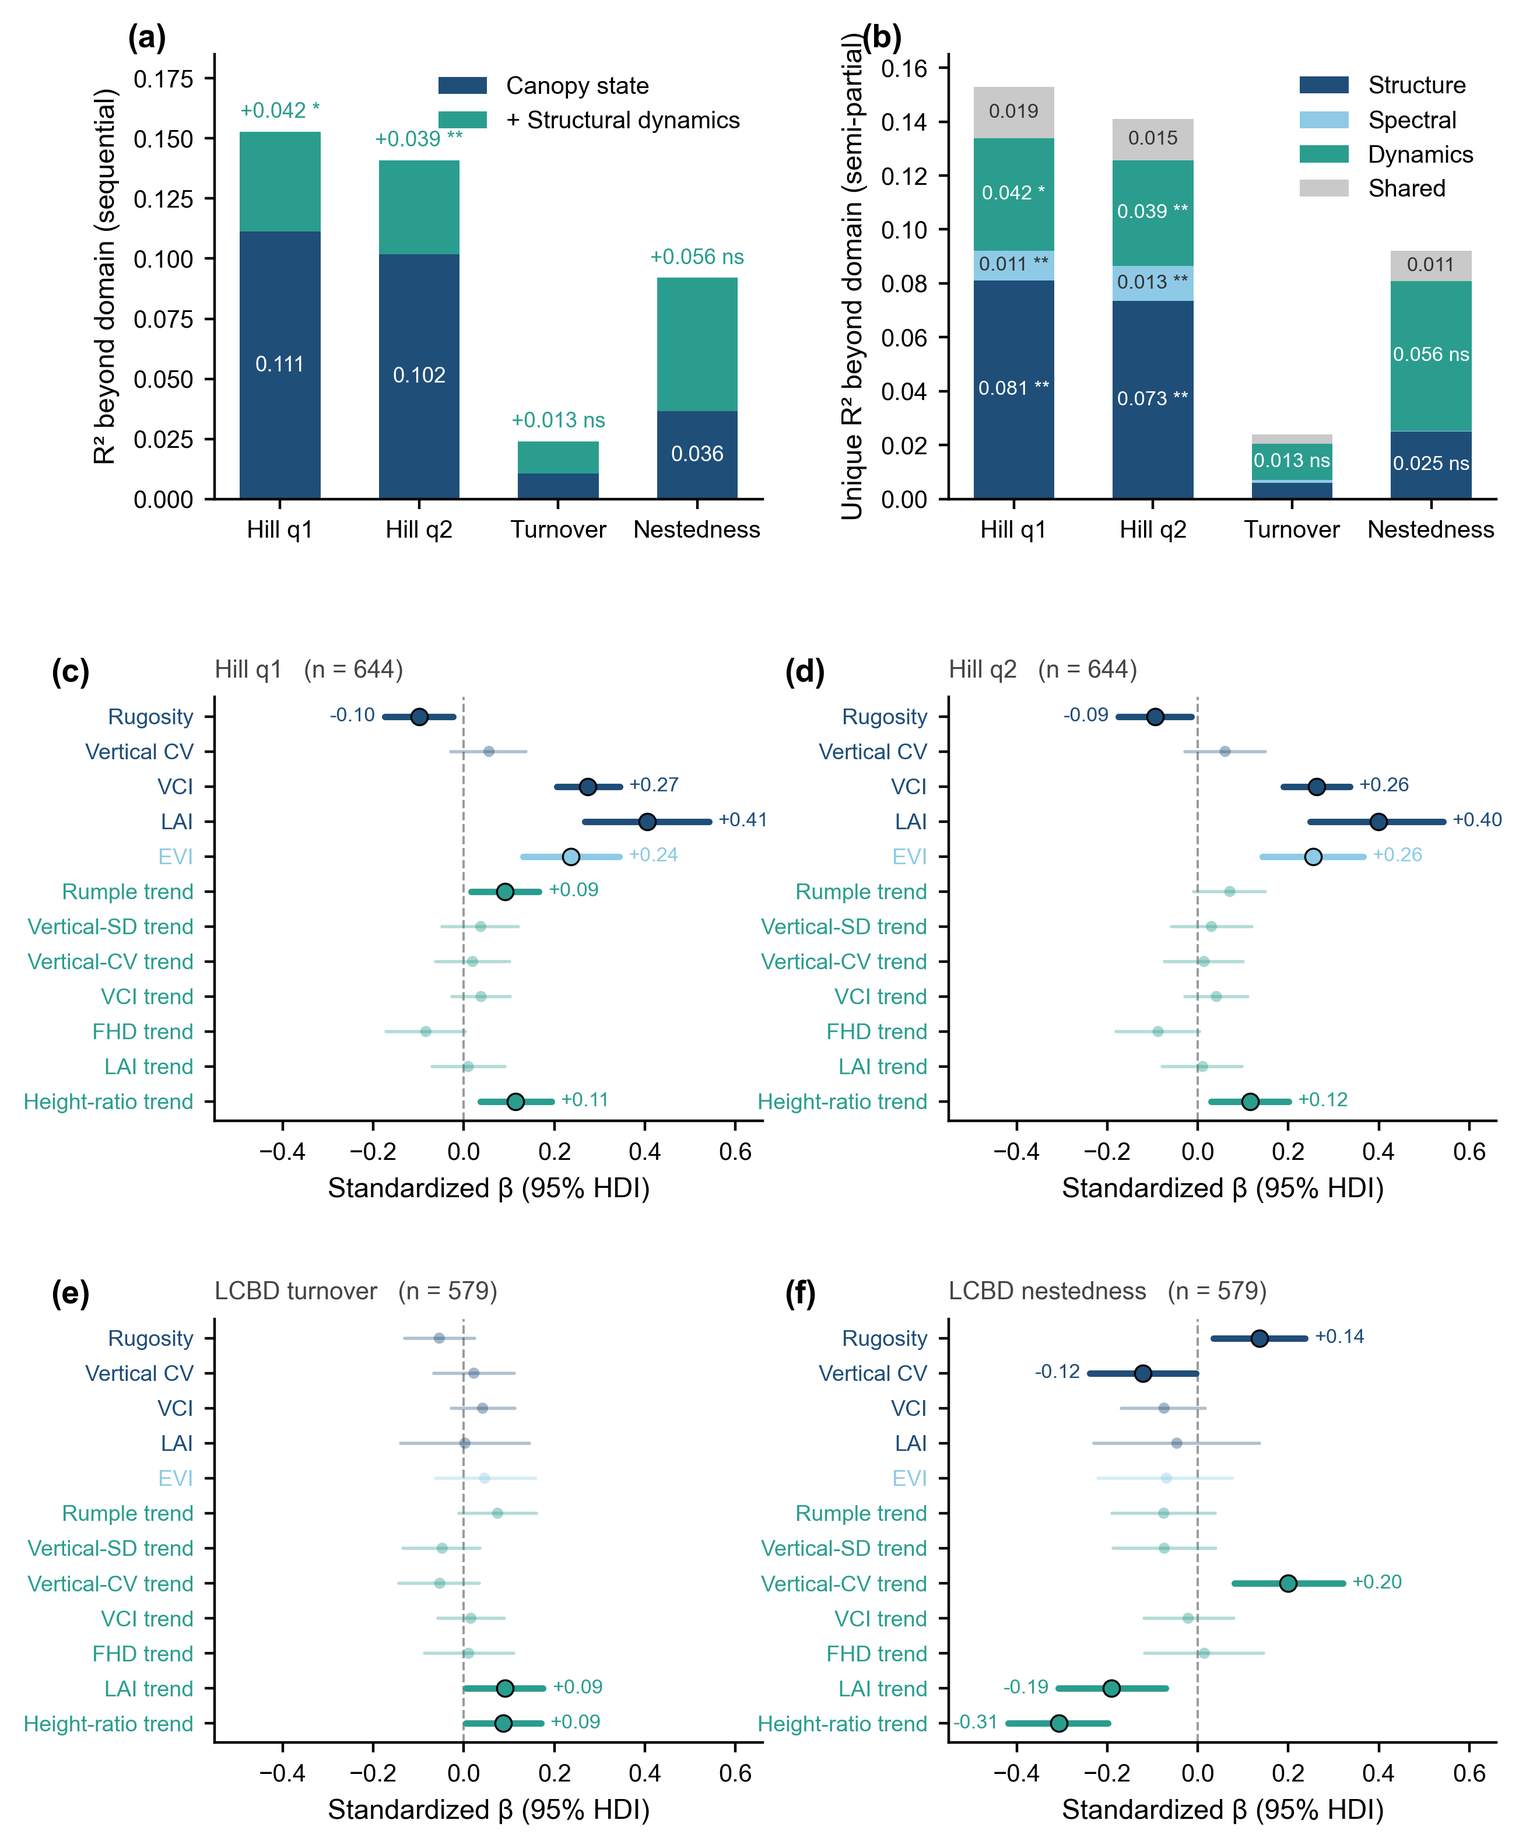
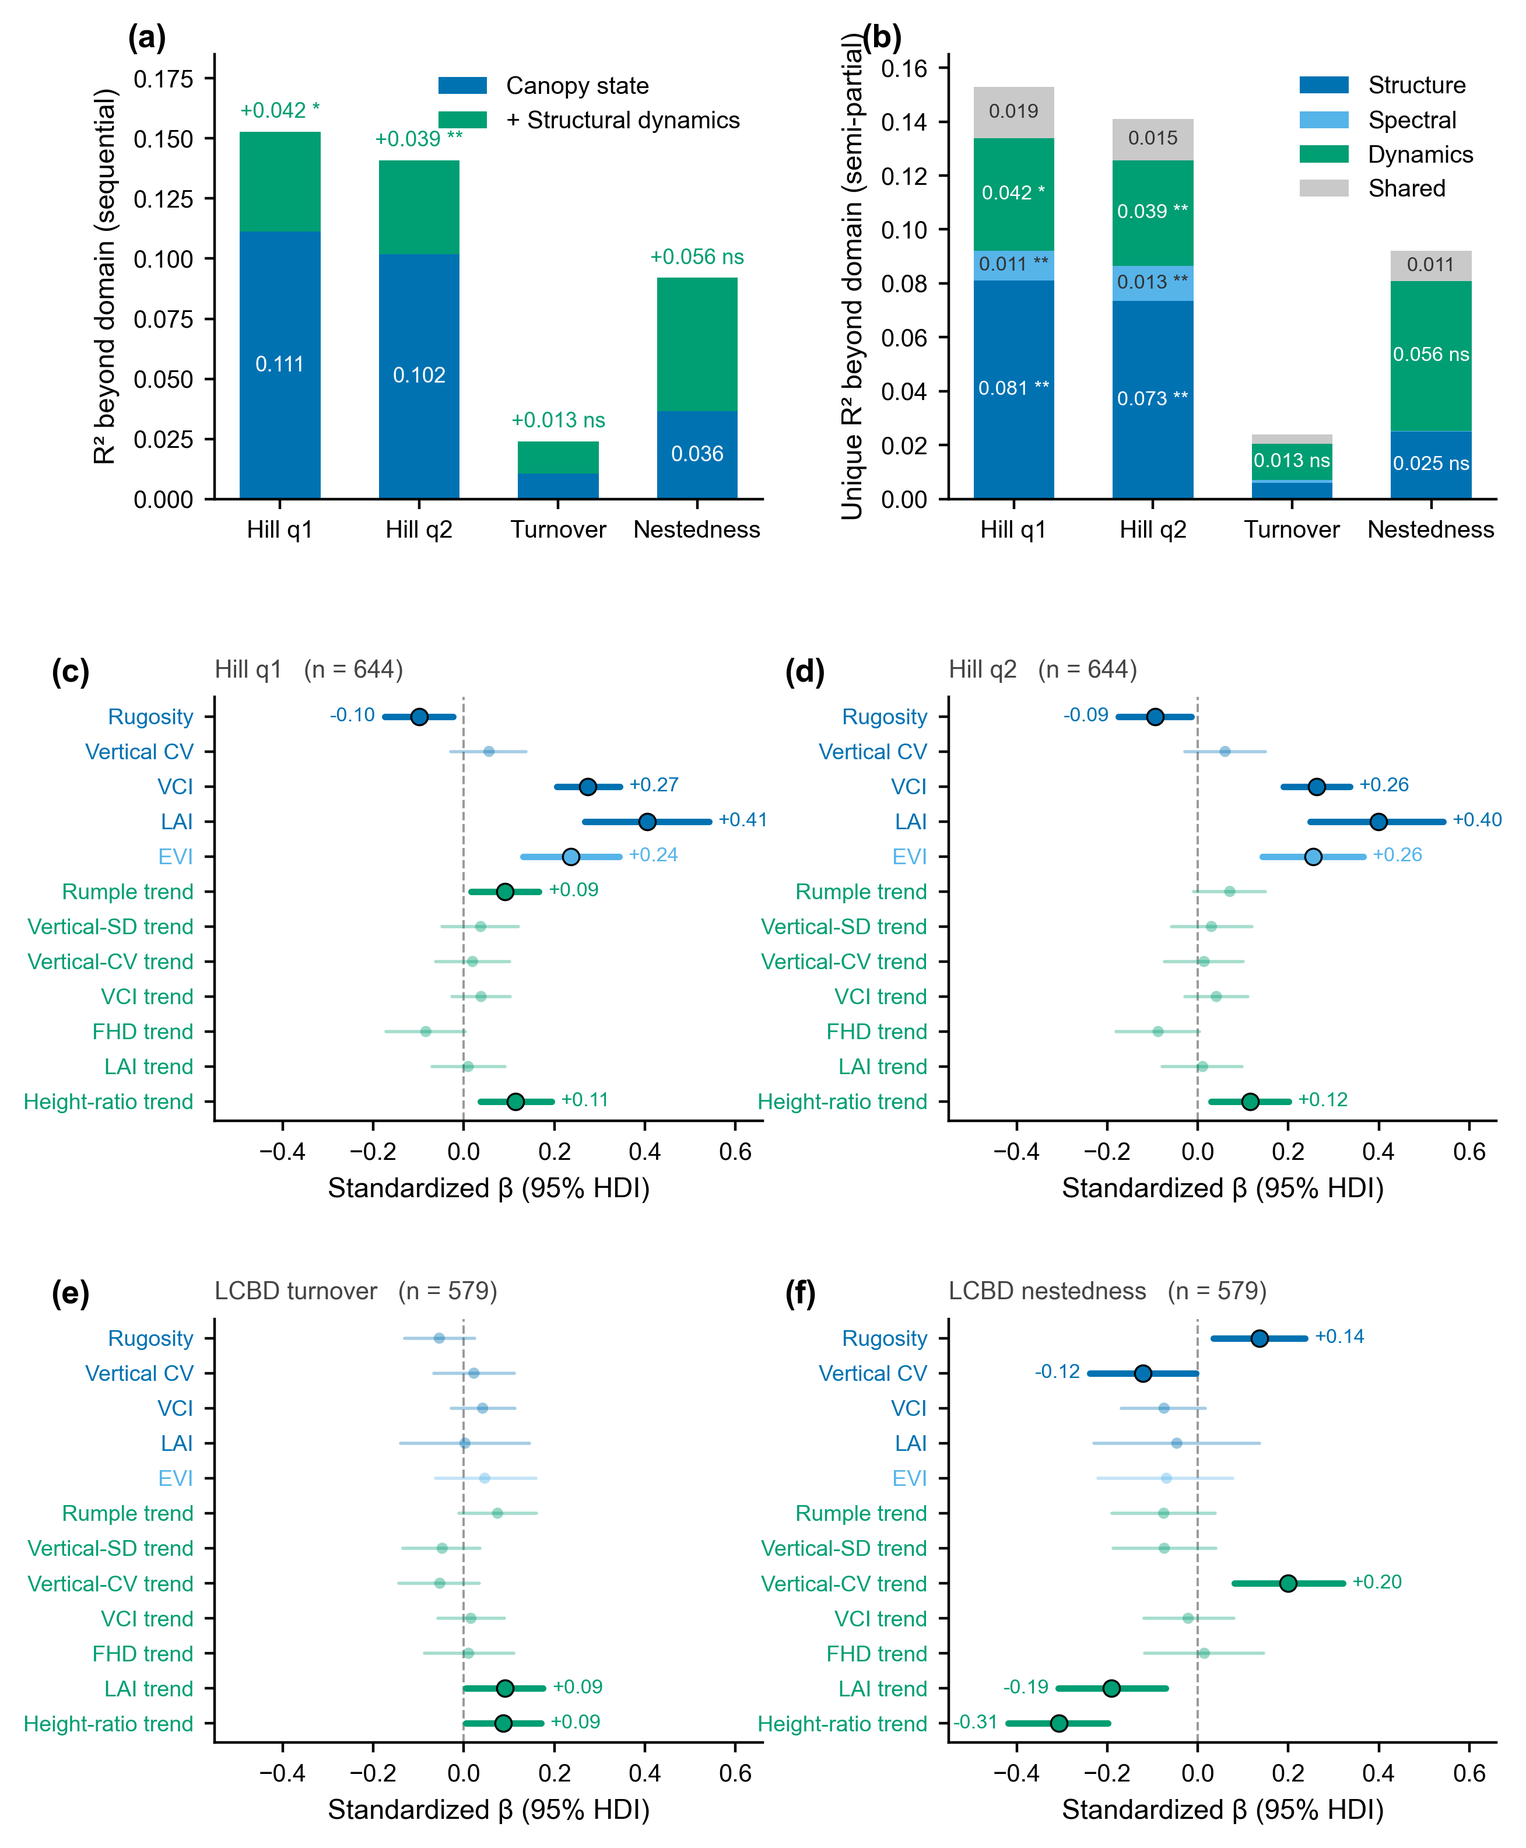
Figure round 4: Okabe-Ito palette, de-overlapped map symbols, Alaska own panel, Fig 6 b+c merged
- Global block palette switched to Okabe-Ito colourblind-safe colours
  (structure #0072B2, spectral #56B4E9, dynamics #009E73, productivity #D55E00),
  applied consistently across Figs 1/3/6; Fig 1 boxes now tinted fills (10%)
  with full-colour borders.
- Fig 2: Alaska moved from an overlay inset to its own panel (no overlap with
  the mainland); clustered site symbols displaced with thin connector lines to
  their true locations (CONUS 15 sites, AK 3); MAT colourbar moved to a
  horizontal bar under the map (no longer collides with panel b).
- Fig 6: (b) and (c) merged into one panel - both simple-slope patterns on a
  common moderator axis (dodged, orange = GPP x age, blue = VCI x severity),
  making the opposing directions directly comparable. Manuscript citations and
  legend updated (6c -> 6b).

Claude-Session: https://claude.ai/code/session_014QmjDFaec9SLSW3vnUrtQu

diff --git a/scripts_pipeline/make_manuscript_figures.py b/scripts_pipeline/make_manuscript_figures.py
@@ -47,7 +47,7 @@ RL=["Hill q1","Hill q2","LCBD turnover","LCBD nestedness"]; LAB=["Hill q1","Hill
 NICE={"Rugosity_mean":"Rugosity","Vert_CV_mean":"Vertical CV","VCI_mean":"VCI","LAI_mean":"LAI","EVI_mean":"EVI",
       "Rumple_trend":"Rumple trend","Vert_SD_trend":"Vertical-SD trend","Vert_CV_trend":"Vertical-CV trend","VCI_trend":"VCI trend",
       "FHD_trend":"FHD trend","LAI_trend":"LAI trend","Ht_Ratio_trend":"Height-ratio trend"}
-C_STR="#1f4e79"; C_SPE="#8ecae6"; C_DYN="#2a9d8f"; C_SHA="#c9c9c9"; C_PRO="#bc6c25"; C_ACC="#c1121f"
+C_STR="#0072B2"; C_SPE="#56B4E9"; C_DYN="#009E73"; C_SHA="#c9c9c9"; C_PRO="#D55E00"; C_ACC="#c1121f"   # Okabe-Ito (colourblind-safe)
 CBLK={"structure":C_STR,"spectral":C_SPE,"dynamics":C_DYN}
 def blk(c): return "structure" if c in S else "spectral" if c in P else "dynamics"
 def star(p): return "***" if p<1e-3 else "**" if p<1e-2 else "*" if p<5e-2 else "ns"
@@ -55,10 +55,12 @@ BAYES_RESP={"Hill q1":"Hill_q1","LCBD nestedness":"LCBD_nestedness_rare"}
 
 # ================= FIGURE 1 : conceptual framework =================
 fig,ax=plt.subplots(figsize=(W,4.1)); ax.set_xlim(0,10); ax.set_ylim(0,10); ax.axis("off")
-from matplotlib.patches import Rectangle
+from matplotlib.colors import to_rgba
 def cbox(x,y,w,h,lines,accent=None,fs=7.6):
-    ax.add_patch(FancyBboxPatch((x,y),w,h,boxstyle="round,pad=0.10",fc="white",ec="#7a7a7a",lw=0.9))
-    if accent: ax.add_patch(Rectangle((x-0.06,y-0.06),0.14,h+0.12,fc=accent,ec="none",zorder=3))
+    if accent:
+        ax.add_patch(FancyBboxPatch((x,y),w,h,boxstyle="round,pad=0.10",fc=to_rgba(accent,0.10),ec=accent,lw=1.3))
+    else:
+        ax.add_patch(FancyBboxPatch((x,y),w,h,boxstyle="round,pad=0.10",fc="#f7f7f7",ec="#666666",lw=1.0))
     t0=lines[0]; rest="\n".join(lines[1:])
     ax.text(x+w/2,y+h-0.34,t0,ha="center",va="center",fontsize=fs+0.6,fontweight="bold",color="#111111")
     if rest: ax.text(x+w/2,y+(h-0.62)/2,rest,ha="center",va="center",fontsize=fs,color="#444444")
@@ -109,35 +111,56 @@ def autolab(axh,xs,ys,names,fs=4.8):
     txts=[axh.text(x_,y_,n_,fontsize=fs,color="#333333") for x_,y_,n_ in zip(xs,ys,names)]
     adjust_text(txts,x=list(xs),y=list(ys),ax=axh,expand=(1.25,1.6),force_text=(0.4,0.6),
                 arrowprops=dict(arrowstyle="-",color="#999999",lw=0.4))
+# displaced symbol positions for clustered sites (metres, in each panel's CRS), with connectors to true locations
+DOTOFF={"ABBY":(-80e3,70e3),"WREF":(80e3,-70e3),"SOAP":(-80e3,-60e3),"TEAK":(80e3,60e3),
+        "UNDE":(0,120e3),"STEI":(-120e3,-80e3),"TREE":(120e3,-80e3),
+        "BLAN":(-90e3,80e3),"SCBI":(-90e3,-80e3),"SERC":(100e3,0),
+        "TALL":(70e3,90e3),"DELA":(-100e3,10e3),"LENO":(40e3,-100e3),
+        "ORNL":(-80e3,70e3),"GRSM":(90e3,-60e3)}
+AKOFF={"HEAL":(-150e3,0),"BONA":(110e3,100e3),"DEJU":(110e3,-130e3)}
+def draw_sites(axh,dd,offmap,ssize):
+    xs=[];ys=[]
+    for _,r in dd.iterrows():
+        dx,dy=offmap.get(r.siteID,(0,0)); x_,y_=r.geometry.x+dx,r.geometry.y+dy
+        if dx or dy: axh.plot([r.geometry.x,x_],[r.geometry.y,y_],color="#9a9a9a",lw=0.5,zorder=2)
+        xs.append(x_); ys.append(y_)
+    sch=axh.scatter(xs,ys,c=dd.MAT_C,cmap="RdYlBu_r",vmin=vmin,vmax=vmax,s=ssize,edgecolor="#222222",linewidth=0.6,zorder=3)
+    return sch,xs,ys
 vmin,vmax=sm.MAT_C.min(),sm.MAT_C.max()
-fig,ax=plt.subplots(1,2,figsize=(W,3.25),gridspec_kw={"width_ratios":[1.5,1]})
-conus_dom.plot(ax=ax[0],color="#f1f1ef",edgecolor="none")
-conus_dom.boundary.plot(ax=ax[0],color="#b3b3ad",lw=0.5)
+fig=plt.figure(figsize=(W,3.25))
+gsm2=fig.add_gridspec(1,3,width_ratios=[0.40,1.42,1.00],wspace=0.30)
+axk=fig.add_subplot(gsm2[0,0]); axu=fig.add_subplot(gsm2[0,1]); axb=fig.add_subplot(gsm2[0,2])
+# --- Alaska panel (own Albers, no overlap with CONUS) ---
+ak_dom.plot(ax=axk,color="#f1f1ef",edgecolor="none")
+ak_dom.boundary.plot(ax=axk,color="#b3b3ad",lw=0.4)
+_,akx,aky=draw_sites(axk,pak,AKOFF,26)
+autolab(axk,akx,aky,pak.siteID.values,fs=4.5)
+axk.set_xlim(-0.9e6,1.7e6); axk.set_ylim(0.35e6,2.45e6)
+axk.set_xticks([]); axk.set_yticks([])
+for sp in axk.spines.values(): sp.set_edgecolor("#bbbbbb"); sp.set_linewidth(0.6)
+axk.text(0.5,-0.075,"Alaska (D18–D19)",transform=axk.transAxes,ha="center",fontsize=6.5,color="#555555")
+panel(axk,"(a)",-0.10,1.02)
+# --- CONUS panel ---
+conus_dom.plot(ax=axu,color="#f1f1ef",edgecolor="none")
+conus_dom.boundary.plot(ax=axu,color="#b3b3ad",lw=0.5)
 for _,r in conus_dom.iterrows():
     pt=r.geometry.representative_point()
-    ax[0].text(pt.x,pt.y,f"D{int(r.DomainID):02d}",fontsize=4.3,color="#a8a8a2",ha="center",va="center",zorder=1)
-sc=ax[0].scatter(p48.geometry.x,p48.geometry.y,c=p48.MAT_C,cmap="RdYlBu_r",vmin=vmin,vmax=vmax,s=38,edgecolor="#222222",linewidth=0.6,zorder=3)
-autolab(ax[0],p48.geometry.x.values,p48.geometry.y.values,p48.siteID.values)
-ax[0].set_axis_off(); panel(ax[0],"(a)",0.01,0.97)
-# Alaska inset (Alaska Albers, NEON domains D18/D19)
-axi=ax[0].inset_axes([0.00,0.02,0.30,0.34])
-ak_dom.plot(ax=axi,color="#f1f1ef",edgecolor="none")
-ak_dom.boundary.plot(ax=axi,color="#b3b3ad",lw=0.4)
-axi.scatter(pak.geometry.x,pak.geometry.y,c=pak.MAT_C,cmap="RdYlBu_r",vmin=vmin,vmax=vmax,s=26,edgecolor="#222222",linewidth=0.5,zorder=3)
-autolab(axi,pak.geometry.x.values,pak.geometry.y.values,pak.siteID.values,fs=4.3)
-axi.set_xlim(-0.8e6,1.65e6); axi.set_ylim(0.4e6,2.4e6)
-axi.set_xticks([]); axi.set_yticks([])
-for sp in axi.spines.values(): sp.set_edgecolor("#aaaaaa"); sp.set_linewidth(0.6)
-axi.set_title("Alaska",fontsize=6,color="#555555",pad=1.5)
-cb=fig.colorbar(sc,ax=ax[0],shrink=0.62,pad=0.01,aspect=22); cb.set_label("Mean annual temperature (°C)",fontsize=7.5); cb.ax.tick_params(labelsize=7)
+    axu.text(pt.x,pt.y,f"D{int(r.DomainID):02d}",fontsize=4.3,color="#a8a8a2",ha="center",va="center",zorder=1)
+sc,usx,usy=draw_sites(axu,p48,DOTOFF,30)
+autolab(axu,usx,usy,p48.siteID.values)
+axu.set_axis_off()
+cax=axu.inset_axes([0.28,-0.04,0.46,0.045])
+cb=fig.colorbar(sc,cax=cax,orientation="horizontal"); cb.set_label("Mean annual temperature (°C)",fontsize=6.8); cb.ax.tick_params(labelsize=6.2)
 cb.outline.set_visible(False)
-s2=ax[1].scatter(sm.MAT_C,sm.MAP_mm,c=sm.Hill_q1,cmap="viridis",s=42,edgecolor="#222222",linewidth=0.6,zorder=3)
-autolab(ax[1],sm.MAT_C.values,sm.MAP_mm.values,sm.siteID.values)
-ax[1].set_xlabel("Mean annual temperature (°C)"); ax[1].set_ylabel("Mean annual precipitation (mm)")
-panel(ax[1],"(b)",-0.22,1.00)
-cb2=fig.colorbar(s2,ax=ax[1],shrink=0.85,pad=0.03,aspect=22); cb2.set_label("Site-mean Hill q1",fontsize=7.5); cb2.ax.tick_params(labelsize=7)
+# --- climate space ---
+s2=axb.scatter(sm.MAT_C,sm.MAP_mm,c=sm.Hill_q1,cmap="viridis",s=40,edgecolor="#222222",linewidth=0.6,zorder=3)
+autolab(axb,sm.MAT_C.values,sm.MAP_mm.values,sm.siteID.values)
+axb.set_xlabel("Mean annual temperature (°C)"); axb.set_ylabel("Mean annual precipitation (mm)")
+panel(axb,"(b)",-0.26,1.02)
+cax2=axb.inset_axes([1.04,0.06,0.035,0.86])
+cb2=fig.colorbar(s2,cax=cax2); cb2.set_label("Site-mean Hill q1",fontsize=7); cb2.ax.tick_params(labelsize=6.5)
 cb2.outline.set_visible(False)
-fig.tight_layout(); fig.savefig(FIG+"/Figure_2.png",bbox_inches="tight"); plt.close(fig)
+fig.savefig(FIG+"/Figure_2.png",bbox_inches="tight"); plt.close(fig)
 print(f"VERIFY Fig2: sites={len(sm)} (26), MAT {sm.MAT_C.min():.1f}~{sm.MAT_C.max():.1f}C, MAP {sm.MAP_mm.min():.0f}~{sm.MAP_mm.max():.0f}mm")
 
 # ================= FIGURE 3 : plot-level framework =================
@@ -280,7 +303,7 @@ sig=sig.sort_values(["family","beta_int"]).reset_index(drop=True)
 ss=pd.read_csv(RES+"/simple_slopes.csv"); z=[-1,0,1]
 gA=ss[(ss.rp=="Hill q1")&(ss.rs=="modis_gpp")&(ss.ctx=="stand_age_gami")].sort_values("ctx_z")
 gB=ss[(ss.rp=="Hill q1")&(ss.rs=="VCI_mean")&(ss.ctx=="severity")].sort_values("ctx_z")
-fig,ax=plt.subplots(1,3,figsize=(W,3.0),gridspec_kw={"width_ratios":[1.5,1,1]})
+fig,ax=plt.subplots(1,2,figsize=(W,3.0),gridspec_kw={"width_ratios":[1.35,1]})
 a=ax[0]; ysig=np.arange(len(sig))
 for yi,r in zip(ysig,sig.itertuples()):
     c=FAMC.get(r.family,"#444444")
@@ -296,20 +319,23 @@ a.legend(handles=[Line2D([0],[0],color=FAMC["disturbance"],lw=2,label="Disturban
                   Line2D([0],[0],color=FAMC["land use"],lw=2,label="Land use")],
          frameon=False,loc="upper left",fontsize=6.5,handlelength=1.4,borderaxespad=0.1)
 panel(a,"(a)",-0.52,1.02)
-for a,(g4,col,xt,note,letter) in zip(ax[1:],[
-    (gA,C_PRO,["−1 SD\n(younger)","Mean","+1 SD\n(older)"],"MODIS GPP → Hill q1\nby stand age (ns, q = 0.26)","(b)"),
-    (gB,C_STR,["−1 SD\n(least dist.)","Mean","+1 SD\n(most dist.)"],"VCI → Hill q1\nby disturbance severity","(c)")]):
-    a.errorbar(z,g4.slope,yerr=1.96*g4.se,marker="o",capsize=3,color=col,lw=1.4,ms=4.5)
+# (b) combined simple slopes: two moderation patterns, dodged on a common moderator axis
+a=ax[1]; dodge=0.09
+for g4,col,dx,lab4,va_lab in [(gA,C_PRO,-dodge,"MODIS GPP → Hill q1 by stand age (ns, q = 0.26)",1),
+                              (gB,C_STR,+dodge,"VCI → Hill q1 by disturbance severity",-1)]:
+    zx=[zz+dx for zz in z]
+    a.errorbar(zx,g4.slope,yerr=1.96*g4.se,marker="o",capsize=3,color=col,lw=1.4,ms=4.5,label=lab4)
     tops=(g4.slope+1.96*g4.se).values; bots=(g4.slope-1.96*g4.se).values
-    for zz,sl,tp,pv in zip(z,g4.slope,tops,g4.p):
-        a.annotate(f"{sl:+.2f}{'*' if pv<0.05 else ''}",(zz,tp),textcoords="offset points",xytext=(0,3),
-                   color=col,fontsize=6.4,ha="center")
-    a.axhline(0,color="#999999",lw=0.7,ls="--")
-    a.set_xticks(z); a.set_xticklabels(xt,fontsize=6.2); a.set_xlim(-1.55,1.55)
-    a.set_ylim(min(-0.02,bots.min()-0.04),tops.max()+0.15)
-    a.text(0.04,0.975,note,transform=a.transAxes,fontsize=6.4,color="#444444",va="top")
-    panel(a,letter,-0.16,1.02)
-ax[1].set_ylabel("Simple slope on Hill q1 (per 1 SD)",fontsize=7.5)
+    for zz,sl,tp,bt,pv in zip(zx,g4.slope,tops,bots,g4.p):
+        if va_lab>0: a.annotate(f"{sl:+.2f}{'*' if pv<0.05 else ''}",(zz,tp),textcoords="offset points",xytext=(0,3),color=col,fontsize=6.2,ha="center")
+        else: a.annotate(f"{sl:+.2f}{'*' if pv<0.05 else ''}",(zz,bt),textcoords="offset points",xytext=(0,-9),color=col,fontsize=6.2,ha="center")
+a.axhline(0,color="#999999",lw=0.7,ls="--")
+a.set_xticks(z); a.set_xticklabels(["−1 SD","Mean","+1 SD"],fontsize=7); a.set_xlim(-1.55,1.55)
+a.set_ylim(-0.14,0.83)
+a.set_xlabel("Moderator level (stand age / disturbance severity)")
+a.set_ylabel("Simple slope on Hill q1 (per 1 SD)",fontsize=7.5)
+a.legend(frameon=False,loc="upper left",fontsize=6.2,handlelength=1.6)
+panel(a,"(b)",-0.18,1.02)
 fig.tight_layout(); fig.savefig(FIG+"/Figure_6.png",bbox_inches="tight"); plt.close(fig)
 print(f"VERIFY Fig6: FDR-sig interactions={len(sig)} (7: 4 disturbance + 3 land use) | MODISxAge slopes={[round(v,2) for v in gA.slope]} | VCIxSev={[round(v,2) for v in gB.slope]}")
 print("ALL FIGURES SAVED ->",FIG)

diff --git a/NEON_v2/papers/UNIFIED/MANUSCRIPT_v2_full_26site.md b/NEON_v2/papers/UNIFIED/MANUSCRIPT_v2_full_26site.md
@@ -115,7 +115,7 @@ The plot-level diagnostic confirmed why productivity belongs at the site scale. 
 
 Across three context families (stand age, disturbance, land use), the interaction screen (168 terms) identified seven terms surviving FDR correction (four disturbance, three land use) (Figure 6a). We treat the two coherent patterns below as interpretable and the remainder as exploratory.
 
-First, the productivity–diversity association was descriptively steeper in older stands; simple slopes of MODIS GPP on Hill q1 rose from +0.17 (p = 0.13) at −1 SD stand age to +0.27 (p = 0.01) at the mean and +0.38 (p = 0.007) at +1 SD (Figure 6b). However, the formal GPP × stand-age interaction did not survive FDR correction (MODIS q = 0.26; PML q = 0.35). We therefore report age dependence of the productivity signal as suggestive rather than statistically supported. Second, the structure–diversity association weakened with disturbance. The leaf-area × severity interaction was negative for alpha diversity (q = 0.004), and disturbance recency additionally moderated the productivity signal (MODIS × recency q = 0.005). The VCI–diversity simple slope remained positive at all disturbance levels but declined from +0.39 (p = 9 × 10⁻⁷) in the least-disturbed plots to +0.21 (p = 1 × 10⁻⁴) in the most-disturbed (Figure 6c). Among land-use interactions, spectral-by-land-use terms on turnover survived correction (EVI × forest fraction q = 4 × 10⁻⁵; EVI × edge density q = 0.002; EVI × land-cover diversity q = 0.009) and are reported as exploratory. Direct land-use effects were weak and non-significant (edge density β = −0.09, p = 0.10; forest fraction β = +0.06, p = 0.22). Last, in the BACI analysis, the treatment × post-disturbance interaction estimated a decline of approximately one species (ΔRichness β = −1.05, p = 0.069; n = 79 impact and 215 control plots), whereas abundance-weighted diversity was unchanged (p = 0.81), consistent with losses concentrated among rare species.
+First, the productivity–diversity association was descriptively steeper in older stands; simple slopes of MODIS GPP on Hill q1 rose from +0.17 (p = 0.13) at −1 SD stand age to +0.27 (p = 0.01) at the mean and +0.38 (p = 0.007) at +1 SD (Figure 6b). However, the formal GPP × stand-age interaction did not survive FDR correction (MODIS q = 0.26; PML q = 0.35). We therefore report age dependence of the productivity signal as suggestive rather than statistically supported. Second, the structure–diversity association weakened with disturbance. The leaf-area × severity interaction was negative for alpha diversity (q = 0.004), and disturbance recency additionally moderated the productivity signal (MODIS × recency q = 0.005). The VCI–diversity simple slope remained positive at all disturbance levels but declined from +0.39 (p = 9 × 10⁻⁷) in the least-disturbed plots to +0.21 (p = 1 × 10⁻⁴) in the most-disturbed (Figure 6b). Among land-use interactions, spectral-by-land-use terms on turnover survived correction (EVI × forest fraction q = 4 × 10⁻⁵; EVI × edge density q = 0.002; EVI × land-cover diversity q = 0.009) and are reported as exploratory. Direct land-use effects were weak and non-significant (edge density β = −0.09, p = 0.10; forest fraction β = +0.06, p = 0.22). Last, in the BACI analysis, the treatment × post-disturbance interaction estimated a decline of approximately one species (ΔRichness β = −1.05, p = 0.069; n = 79 impact and 215 control plots), whereas abundance-weighted diversity was unchanged (p = 0.81), consistent with losses concentrated among rare species.
 
 # 4. Discussion
 
@@ -169,6 +169,6 @@ We evaluated how three remote-sensing dimensions relate to the components of tre
 
 **Figure 5.** Site-level species–energy relationship. Site-mean Hill q1 versus (a) eddy-covariance tower GPP (22 sites), (b) PML-V2 GPP, and (c) MODIS GPP (all 26 sites). All three relationships are monotonic with no quadratic (hump) support, and both satellite products track the tower closely (r = +0.86 and +0.85). File: `figures/Figure_5.png`.
 
-**Figure 6.** Context moderation. (a) All seven interaction terms surviving FDR correction in the 168-term screen (interaction β with 95% CI reconstructed from the reported p-values; colour = context family; q values at right). (b) Simple slopes (± 95% CI) of MODIS GPP on Hill q1 at −1 SD, mean, and +1 SD stand age; the formal interaction does not survive FDR (q = 0.26) and is reported as suggestive. (c) Simple slopes of VCI on Hill q1 by disturbance severity. Asterisks: p < 0.05. File: `figures/Figure_6.png`.
+**Figure 6.** Context moderation. (a) All seven interaction terms surviving FDR correction (q = Benjamini–Hochberg-adjusted p) in the 168-term screen; interaction β with 95% CI reconstructed from the reported p-values; colour = context family. (b) Simple slopes (± 95% CI) on Hill q1 for the two coherent moderation patterns, on a common moderator axis: MODIS GPP by stand age (orange; the formal interaction does not survive FDR, q = 0.26, and is reported as suggestive) and VCI by disturbance severity (blue). Asterisks: p < 0.05. File: `figures/Figure_6.png`.
 
 *(References to be finalized against the reference manager; citation style = GEB/Ecography author–year. Generator: `scripts_pipeline/make_manuscript_figures.py`, drawn from the verified 26-site outputs with printed verification values. Supplementary Tables S1–S8 as in SUPPLEMENTARY.md.)*
